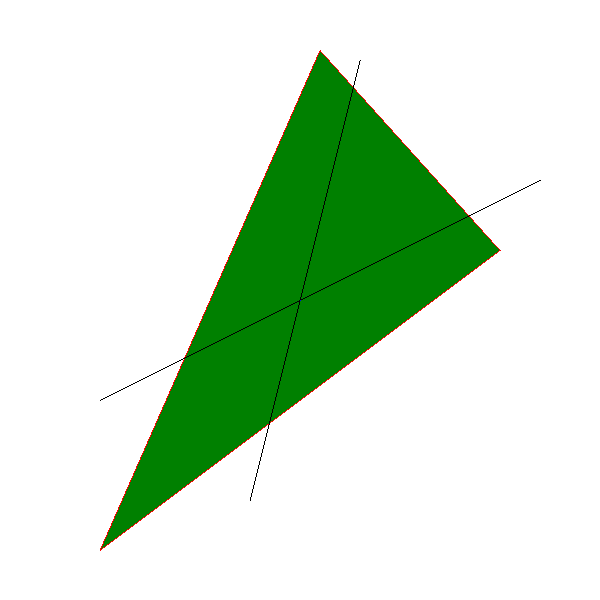
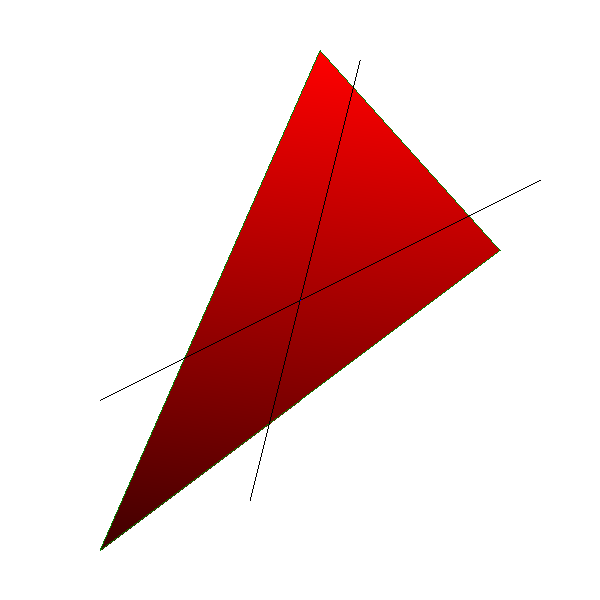
Add the method `DrawShadedTriangle`.

Changed region(s): [[0.18, 0.09, 0.84, 0.9], [0.15, 0.9, 0.18, 0.93]]

diff --git a/Utils/Canvas.cs b/Utils/Canvas.cs
@@ -170,5 +170,84 @@ namespace RasterizationRenderer.Utils
                 }
             }
         }
+
+        /// <summary>
+        /// This method draws a colored filled triangle of vertices <c>p0</c>, <c>p1</c>, and <c>p2</c>, shaded
+        /// with intensity values <c>h0</c>, <c>h1</c>, and <c>h2</c> for each vertex.
+        /// </summary>
+        /// <param name="p0">A vertex of the triangle.</param>
+        /// <param name="p1">A vertex of the triangle.</param>
+        /// <param name="p2">A vertex of the triangle.</param>
+        /// <param name="p0">The color intensity of vertex <c>p0</c> of the triangle.</param>
+        /// <param name="p1">The color intensity of vertex <c>p1</c> of the triangle.</param>
+        /// <param name="p2">The color intensity of vertex <c>p2</c> of the triangle.</param>
+        /// <param name="color">The color of the triangle.</param>
+        public void DrawShadedTriangle(Vector2 p0, Vector2 p1, Vector2 p2, float h0, float h1, float h2, Color color)
+        {
+            // Check all intensities are between 0 and 1.
+            if (h0 < 0f || h0 > 1f) { throw new ArgumentOutOfRangeException(nameof(h0), "Intensities must be between 0 and 1."); }
+            if (h1 < 0f || h1 > 1f) { throw new ArgumentOutOfRangeException(nameof(h1), "Intensities must be between 0 and 1."); }
+            if (h2 < 0f || h2 > 1f) { throw new ArgumentOutOfRangeException(nameof(h2), "Intensities must be between 0 and 1."); }
+
+            // Order vertices from bottom (p0) to top (p2) and the corresponding intensities.
+            if (p1.Y < p0.Y) { (p0, p1) = (p1, p0); (h0, h1) = (h1, h0); }
+            if (p2.Y < p0.Y) { (p2, p0) = (p0, p2); (h2, h0) = (h0, h2); }
+            if (p2.Y < p1.Y) { (p2, p1) = (p1, p2); (h2, h1) = (h1, h2); }
+
+            // Compute values of x and h for the three sides of the triangle.
+            List<float> x01 = Interpolator.Interpolate((int)p0.Y, p0.X, (int)p1.Y, p1.X);
+            List<float> h01 = Interpolator.Interpolate((int)p0.Y, h0, (int)p1.Y, h1);
+            List<float> x12 = Interpolator.Interpolate((int)p1.Y, p1.X, (int)p2.Y, p2.X);
+            List<float> h12 = Interpolator.Interpolate((int)p1.Y, h1, (int)p2.Y, h2);
+            List<float> x02 = Interpolator.Interpolate((int)p0.Y, p0.X, (int)p2.Y, p2.X);
+            List<float> h02 = Interpolator.Interpolate((int)p0.Y, h0, (int)p2.Y, h2);
+
+            // Remove repeated value in x01.
+            x01.RemoveAt(x01.Count - 1);
+
+            // Concatenate lists to find the x values of the long side of the triangle.
+            List<float> x012 = (x01.Concat(x12)).ToList();
+
+            // Remove repeated value in h01.
+            h01.RemoveAt(h01.Count - 1);
+
+            // Concatenate lists to find the h values of the long side of the triangle.
+            List<float> h012 = (h01.Concat(h12)).ToList();
+
+            // Determine which is the left side and which is the right side by comparing
+            // the x values at the middle height.
+            List<float> xLeft, xRight;
+            List<float> hLeft, hRight;
+            int m = (int)MathF.Floor(x012.Count / 2);
+            if (x02[m] < x012[m])
+            {
+                xLeft = x02;
+                hLeft = h02;
+                xRight = x012;
+                hRight = h012;
+            }
+            else
+            {
+                xLeft = x012;
+                hLeft = h012;
+                xRight = x02;
+                hRight = h02;
+            }
+
+            // Draw all the lines. This part does not use the DrawLine method because
+            // all are horizontal lines.
+            for (int y = (int)p0.Y; y <= p2.Y; y++)
+            {
+                int xLeftPoint = (int)xLeft[y - (int)p0.Y];
+                int xRightPoint = (int)xRight[y - (int)p0.Y];
+                List<float> hSegment = Interpolator.Interpolate(xLeftPoint, hLeft[y - (int)p0.Y], xRightPoint, hRight[y - (int)p0.Y]);
+                for (int x = xLeftPoint; x <= xRightPoint; x++)
+                {
+                    float h = hSegment[x - xLeftPoint];
+                    Color shadedColor = Color.FromArgb((int)(color.R * h), (int)(color.G * h), (int)(color.B * h));
+                    PutPixel(x, y, shadedColor);
+                }
+            }
+        }
     }
 }

diff --git a/Program.cs b/Program.cs
@@ -13,8 +13,8 @@ namespace RasterizationRenderer
             Color BACKGROUND_COLOR = Color.White;
 
             Canvas canvas = new(WIDTH, HEIGHT, BACKGROUND_COLOR);
-            canvas.DrawFilledTriangle(new Vector2(-200, -250), new Vector2(200, 50), new Vector2(20, 250), Color.Green);
-            canvas.DrawWireframeTriangle(new Vector2(-200, -250), new Vector2(200, 50), new Vector2(20, 250), Color.Red);
+            canvas.DrawShadedTriangle(new Vector2(-200, -250), new Vector2(200, 50), new Vector2(20, 250), 0.25f, 0.75f, 1f, Color.Red);
+            canvas.DrawWireframeTriangle(new Vector2(-200, -250), new Vector2(200, 50), new Vector2(20, 250), Color.Green);
             canvas.DrawLine(new Vector2(-200, -100), new Vector2(240, 120), Color.Black);
             canvas.DrawLine(new Vector2(-50, -200), new Vector2(60, 240), Color.Black);
             canvas.DrawPoint(new Vector2(0, 0), Color.Blue);
